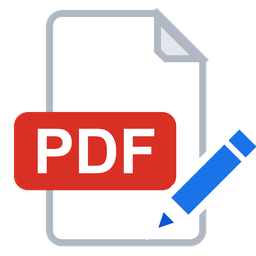
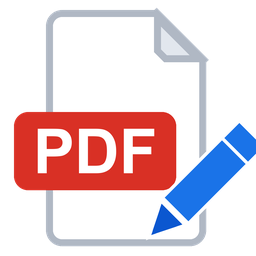
Bieu tuong: vien trang quanh but manh lai

Changed region(s): [[0.5938, 0.4688, 1.0, 0.9375]]

diff --git a/litepdf/icons.py b/litepdf/icons.py
@@ -391,7 +391,7 @@ def paint_app_icon(size: int = 256) -> QPixmap:
     p.translate(146, 240)
     p.rotate(-45)
     w = 46 if small else 40
-    p.setPen(QPen(QColor("#FFFFFF"), 8))
+    p.setPen(QPen(QColor("#FFFFFF"), 3.5))
     p.setBrush(QColor(11, 87, 208))
     p.drawPolygon(QPolygonF([QPointF(0, 0), QPointF(40, -w / 2), QPointF(40, w / 2)]))
     p.setBrush(QColor(26, 115, 232))
